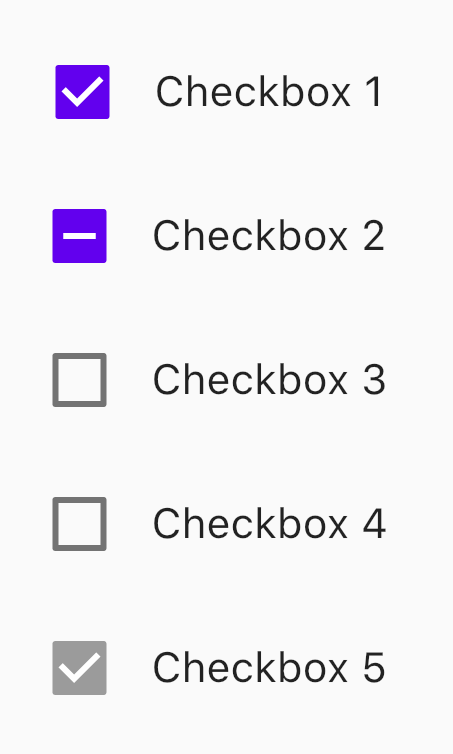
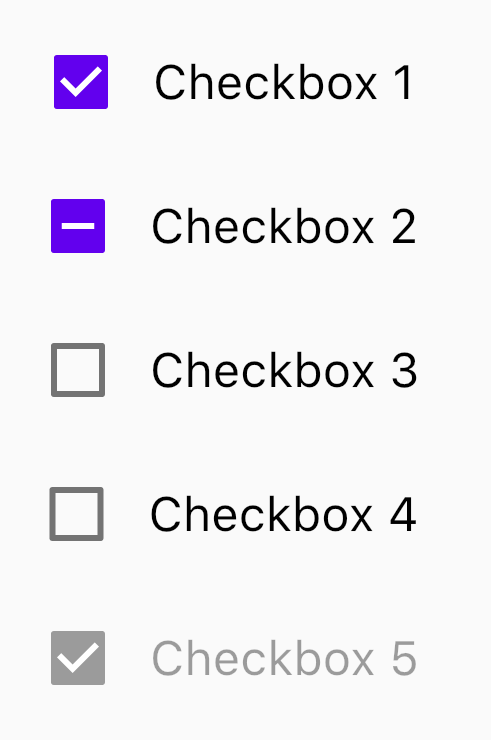
Make the text grey if checkbox is disabled

diff --git a/docs/components/dartpad/checkboxes/regular/main.dart b/docs/components/dartpad/checkboxes/regular/main.dart
@@ -47,7 +47,10 @@ class _CheckboxesDemoState extends State<CheckboxesDemo> {
                     value: checked[i],
                     activeColor: Color(0xFF6200EE),
                   ),
-                  Text('Checkbox ${i + 1}')
+                  Text(
+                    'Checkbox ${i + 1}',
+                    style: Theme.of(context).textTheme.subtitle1.copyWith(color: i == 4 ? Colors.black38 : Colors.black),
+                  ),
                 ],
                 mainAxisAlignment: MainAxisAlignment.center,
               ),

diff --git a/docs/components/dartpad/checkboxes/theme/main.dart b/docs/components/dartpad/checkboxes/theme/main.dart
@@ -48,7 +48,10 @@ class _CheckboxesDemoState extends State<CheckboxesDemo> {
                     tristate: i == 1,
                     value: checked[i],
                   ),
-                  Text('Checkbox ${i + 1}')
+                  Text(
+                    'Checkbox ${i + 1}',
+                    style: Theme.of(context).textTheme.subtitle1.copyWith(color: i == 4 ? Colors.black38 : Colors.black),
+                  ),
                 ],
                 mainAxisAlignment: MainAxisAlignment.center,
               ),

diff --git a/docs/components/checkboxes.md b/docs/components/checkboxes.md
@@ -64,7 +64,10 @@ Column(
             value: checked[i],
             activeColor: Color(0xFF6200EE),
           ),
-          Text('Checkbox ${i + 1}')
+          Text(
+            'Checkbox ${i + 1}',
+            style: Theme.of(context).textTheme.subtitle1.copyWith(color: i == 4 ? Colors.black38 : Colors.black),
+          ),
         ],
         mainAxisAlignment: MainAxisAlignment.center,
       ),
@@ -152,7 +155,10 @@ class _CheckboxesDemoState extends State<CheckboxesDemo> {
                     tristate: i == 1,
                     value: checked[i],
                   ),
-                  Text('Checkbox ${i + 1}')
+                  Text(
+                    'Checkbox ${i + 1}',
+                    style: Theme.of(context).textTheme.subtitle1.copyWith(color: i == 4 ? Colors.black38 : Colors.black),
+                  ),
                 ],
                 mainAxisAlignment: MainAxisAlignment.center,
               ),
@@ -223,4 +229,5 @@ const Color shrineErrorRed = Color(0xFFC5032B);
 
 const Color shrineSurfaceWhite = Color(0xFFFFFBFA);
 const Color shrineBackgroundWhite = Colors.white;
+
 ```
